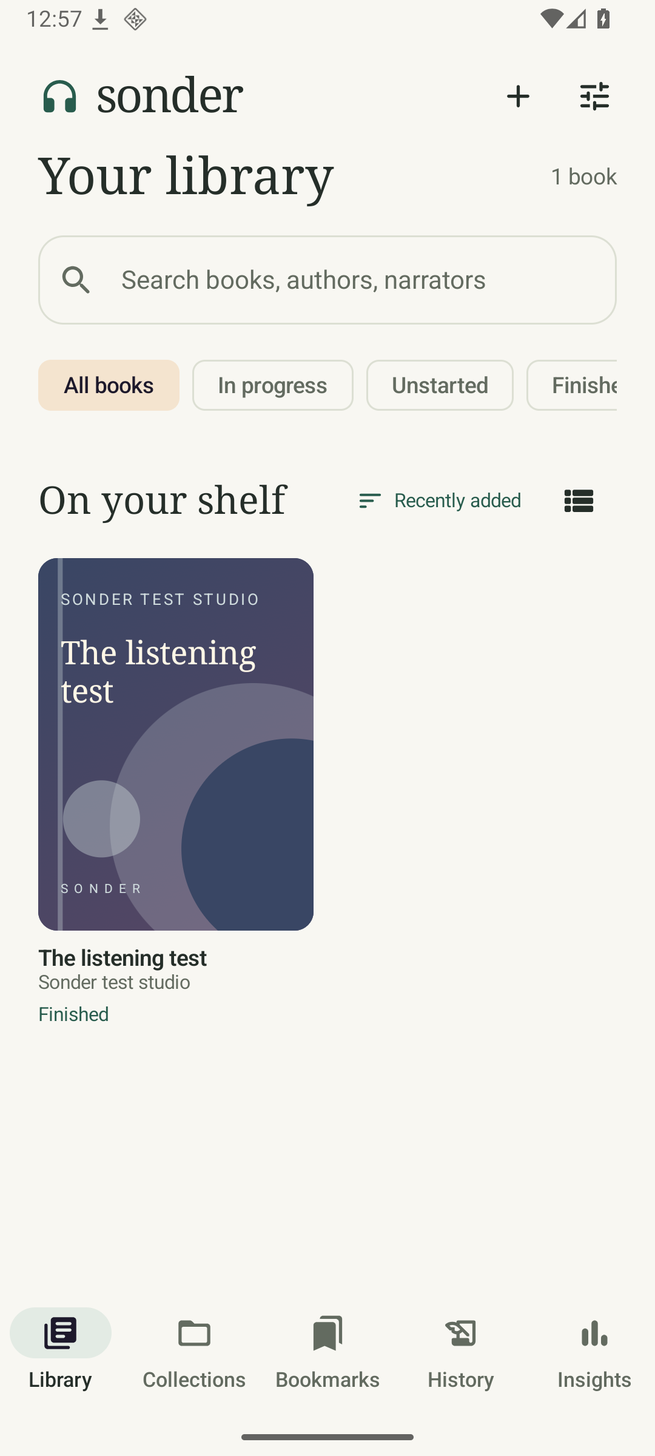
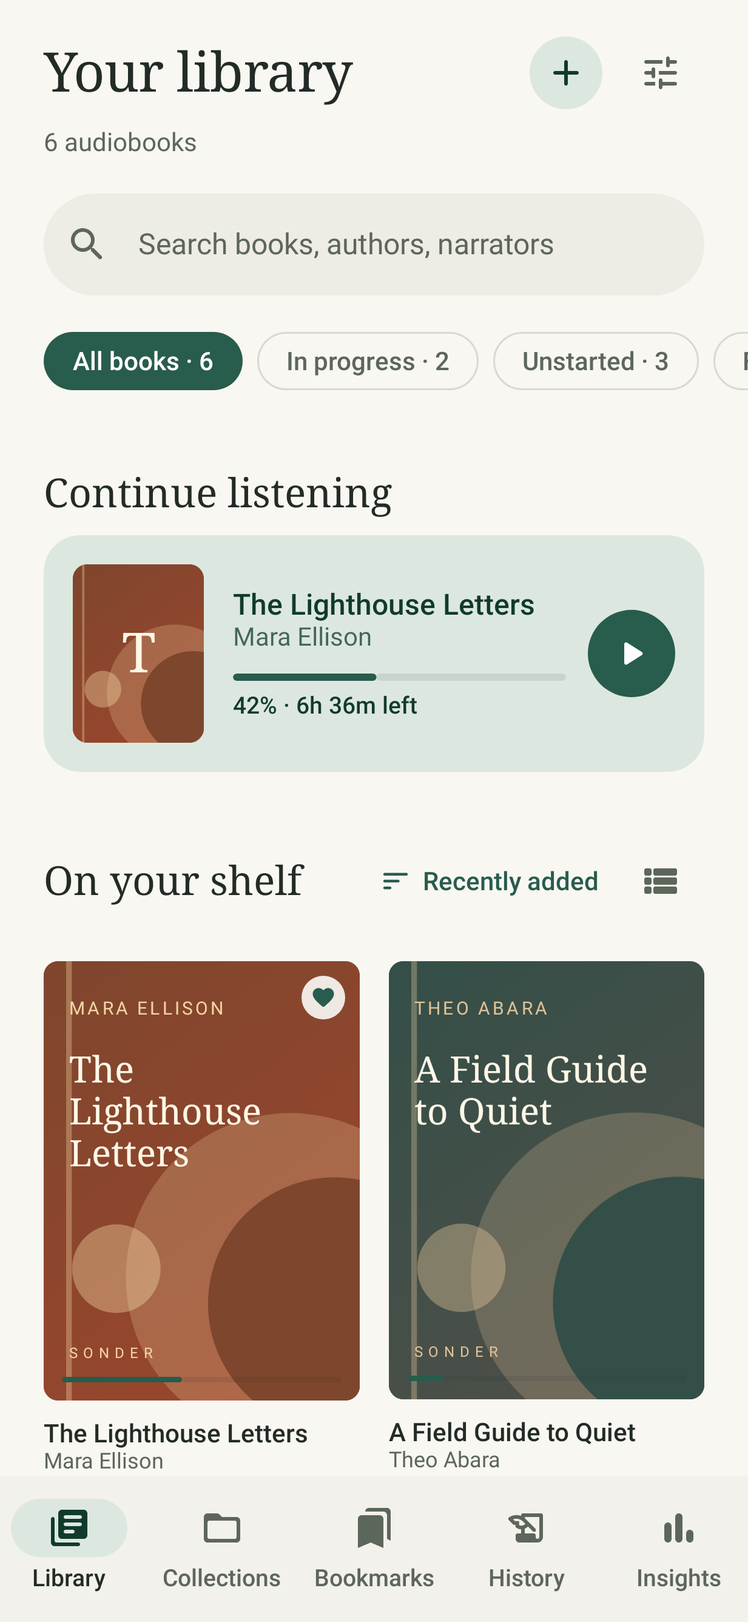
Improve everyday usability and release 1.4.0
- Undo after deleting a bookmark or reading entry and after changing a
  book's status; the store restores the exact prior state (position,
  last played, finished flag) and drops any completion prompt the change
  created.
- Settings pickers are radio lists that show the current value; 0s smart
  rewind reads as "Off".
- Reading history dates come from a calendar that only allows today or
  earlier; the percentage has -/+ buttons and a smooth slider.
- Bookmarks saved without a note are named after their chapter.
- The player shows a "Current chapter" button when the playing chapter is
  scrolled out of view.
- Library and history filter chips show counts.
- Covers clear their decorative text from the accessibility tree so screen
  readers announce each cover once.
- Give the library-book picker its own test tag instead of reusing
  "readingPercent".
- Version 1.4.0 (versionCode 5), release notes, and refreshed README
  screenshots.

Claude-Session: https://claude.ai/code/session_01SR87pnfvK1V8avMhb6S3Ao

diff --git a/app/src/main/java/app/sonder/ui/ReadingHistoryScreen.kt b/app/src/main/java/app/sonder/ui/ReadingHistoryScreen.kt
@@ -14,11 +14,15 @@ import androidx.compose.runtime.saveable.rememberSaveable
 import androidx.compose.ui.Alignment
 import androidx.compose.ui.Modifier
 import androidx.compose.ui.platform.testTag
+import androidx.compose.ui.semantics.Role
+import androidx.compose.foundation.clickable
 import androidx.compose.ui.text.style.TextOverflow
 import androidx.compose.ui.unit.dp
 import app.sonder.data.Book
 import app.sonder.data.ReadingEntry
+import java.time.Instant
 import java.time.LocalDate
+import java.time.ZoneOffset
 import java.time.format.DateTimeFormatter
 import java.time.format.FormatStyle
 import org.json.JSONObject
@@ -41,7 +45,7 @@ val ReadingDraftSaver=Saver<ReadingEntry?,String>(save={ it?.json()?.toString() 
                 StatCard(entries.count { it.percent<100 }.toString(),"Partial reads",Modifier.weight(1f))
             }
             Spacer(Modifier.height(16.dp));SearchField(query,{ query=it },"Search your reading history","Clear history search")
-            Row(Modifier.bleed(24.dp).horizontalScroll(rememberScrollState()).padding(horizontal=24.dp).padding(top=12.dp,bottom=4.dp),horizontalArrangement=Arrangement.spacedBy(8.dp)) { listOf("All reads","Completed","Partial").forEach { value -> ChoiceChip(value,filter==value,{ filter=value }) } }
+            Row(Modifier.bleed(24.dp).horizontalScroll(rememberScrollState()).padding(horizontal=24.dp).padding(top=12.dp,bottom=4.dp),horizontalArrangement=Arrangement.spacedBy(8.dp)) { listOf("All reads" to entries.size,"Completed" to entries.count { it.percent==100 },"Partial" to entries.count { it.percent<100 }).forEach { (value,count) -> ChoiceChip("$value · $count",filter==value,{ filter=value }) } }
         }
         if(filtered.isEmpty()) item { EmptyState(Icons.Rounded.HistoryEdu,if(entries.isEmpty()) "Keep a record of your reading" else "No matching entries",if(entries.isEmpty()) "Add a finished book or record how far you got. You can log books even without an audio file." else "Try another search or filter.",action={ OutlinedButton(onAdd) { Text("Log a book") } }) }
         items(filtered,key={ it.id }) { entry ->
@@ -76,24 +80,40 @@ val ReadingDraftSaver=Saver<ReadingEntry?,String>(save={ it?.json()?.toString() 
     var audioDuration by rememberSaveable(entry.id) { mutableLongStateOf(entry.duration) }
     var bookPicker by rememberSaveable { mutableStateOf(false) }
     var bookQuery by rememberSaveable { mutableStateOf("") }
+    var datePicker by rememberSaveable { mutableStateOf(false) }
     val validDate=runCatching { Regex("\\d{4}-\\d{2}-\\d{2}").matches(date) && !LocalDate.parse(date).isAfter(LocalDate.now()) }.getOrDefault(false)
     ModalBottomSheet(onDismissRequest={ if(!saving) onDismiss() },sheetState=rememberModalBottomSheetState(skipPartiallyExpanded=true),containerColor=MaterialTheme.colorScheme.background) {
         Column(Modifier.fillMaxHeight(.92f).fillMaxWidth().imePadding().padding(horizontal=24.dp)) {
             LazyColumn(Modifier.weight(1f).testTag("readingEditorForm"),verticalArrangement=Arrangement.spacedBy(14.dp),contentPadding=PaddingValues(bottom=16.dp)) {
                 item { Text("Log your reading",style=MaterialTheme.typography.headlineMedium);Text("Save the progress you want to remember. This entry won't change the library's listening status.",style=MaterialTheme.typography.bodyMedium,color=MaterialTheme.colorScheme.onSurfaceVariant,modifier=Modifier.padding(top=8.dp)) }
-                if(books.isNotEmpty()) item { OutlinedButton({ bookPicker=true },enabled=!saving,modifier=Modifier.fillMaxWidth().testTag("readingPercent")) { Icon(Icons.Rounded.LibraryBooks,null);Spacer(Modifier.width(10.dp));Text("Choose a library book") } }
+                if(books.isNotEmpty()) item { OutlinedButton({ bookPicker=true },enabled=!saving,modifier=Modifier.fillMaxWidth().testTag("chooseLibraryBook")) { Icon(Icons.Rounded.LibraryBooks,null);Spacer(Modifier.width(10.dp));Text("Choose a library book") } }
                 item { OutlinedTextField(title,{ title=it.take(1000) },modifier=Modifier.fillMaxWidth(),label={ Text("Book title") },singleLine=true,enabled=!saving) }
                 item { OutlinedTextField(author,{ author=it.take(1000) },modifier=Modifier.fillMaxWidth(),label={ Text("Author") },singleLine=true,enabled=!saving) }
                 item {
-                    Text("${percent}% read",style=MaterialTheme.typography.headlineSmall)
-                    Slider(percent.toFloat(),{ percent=it.roundToInt() },valueRange=0f..100f,steps=99,enabled=!saving,modifier=Modifier.fillMaxWidth().testTag("readingPercent"))
+                    Row(verticalAlignment=Alignment.CenterVertically) {
+                        Text("${percent}% read",style=MaterialTheme.typography.headlineSmall,modifier=Modifier.weight(1f))
+                        FilledTonalIconButton({ percent=(percent-1).coerceAtLeast(0) },enabled=!saving && percent>0) { Icon(Icons.Rounded.Remove,"Decrease percentage") }
+                        FilledTonalIconButton({ percent=(percent+1).coerceAtMost(100) },enabled=!saving && percent<100) { Icon(Icons.Rounded.Add,"Increase percentage") }
+                    }
+                    Slider(percent.toFloat(),{ percent=it.roundToInt() },valueRange=0f..100f,enabled=!saving,modifier=Modifier.fillMaxWidth().testTag("readingPercent"))
                     Row(Modifier.fillMaxWidth(),horizontalArrangement=Arrangement.SpaceBetween) { TextButton({ percent=0 },enabled=!saving) { Text("Not read") };TextButton({ percent=100 },modifier=Modifier.testTag("markReadingCompleted"),enabled=!saving) { Text("Completed") } }
                 }
-                item { OutlinedTextField(date,{ date=it.take(10) },modifier=Modifier.fillMaxWidth(),label={ Text(if(percent==100) "Finished on" else "Logged on") },placeholder={ Text("YYYY-MM-DD") },singleLine=true,isError=!validDate,enabled=!saving,supportingText={ Text(if(validDate) "Date format: YYYY-MM-DD" else "Choose a valid date, today or earlier") }) }
+                item { Box {
+                    OutlinedTextField(runCatching { LocalDate.parse(date).format(DateTimeFormatter.ofLocalizedDate(FormatStyle.LONG)) }.getOrDefault(date),{},readOnly=true,modifier=Modifier.fillMaxWidth(),label={ Text(if(percent==100) "Finished on" else "Logged on") },trailingIcon={ Icon(Icons.Rounded.CalendarMonth,null) },singleLine=true,isError=!validDate,enabled=!saving,supportingText=if(validDate) null else { { Text("Choose a valid date, today or earlier") } })
+                    // The field only displays the date; tapping anywhere on it opens the calendar.
+                    Box(Modifier.matchParentSize().clickable(enabled=!saving,onClickLabel="Choose date",role=Role.Button) { datePicker=true })
+                } }
                 item { OutlinedTextField(notes,{ notes=it.take(10000) },modifier=Modifier.fillMaxWidth(),label={ Text("Reading notes") },minLines=3,maxLines=6,enabled=!saving) }
             }
             Button(onClick={ onSave(entry.copy(title=title.trim(),author=author.trim(),percent=percent,loggedOn=date,notes=notes,source=source,duration=audioDuration)) },enabled=title.isNotBlank() && validDate && !saving,modifier=Modifier.fillMaxWidth().padding(vertical=12.dp).heightIn(min=52.dp)) { Text(if(saving) "Saving…" else "Save reading entry") }
         }
+    }
+    if(datePicker) {
+        // DatePicker works in UTC midnights; Sonder stores plain local dates.
+        val todayMillis=LocalDate.now().atStartOfDay(ZoneOffset.UTC).toInstant().toEpochMilli()
+        val state=rememberDatePickerState(initialSelectedDateMillis=runCatching { LocalDate.parse(date).atStartOfDay(ZoneOffset.UTC).toInstant().toEpochMilli() }.getOrDefault(todayMillis).coerceAtMost(todayMillis),
+            selectableDates=object:SelectableDates { override fun isSelectableDate(utcTimeMillis:Long)=utcTimeMillis<=todayMillis;override fun isSelectableYear(year:Int)=year<=LocalDate.now().year })
+        DatePickerDialog(onDismissRequest={ datePicker=false },confirmButton={ TextButton({ state.selectedDateMillis?.let { date=Instant.ofEpochMilli(it).atZone(ZoneOffset.UTC).toLocalDate().toString() };datePicker=false },enabled=state.selectedDateMillis!=null) { Text("OK") } },dismissButton={ TextButton({ datePicker=false }) { Text("Cancel") } }) { DatePicker(state) }
     }
     if(bookPicker) AlertDialog(onDismissRequest={ bookPicker=false },title={ Text("Choose a library book") },text={ Column {
         OutlinedTextField(bookQuery,{ bookQuery=it },label={ Text("Search library books") },singleLine=true)

diff --git a/app/src/main/java/app/sonder/ui/PlayerScreen.kt b/app/src/main/java/app/sonder/ui/PlayerScreen.kt
@@ -1,6 +1,13 @@
 package app.sonder.ui
 
+import androidx.compose.animation.AnimatedVisibility
+import androidx.compose.animation.fadeIn
+import androidx.compose.animation.fadeOut
+import androidx.compose.animation.slideInVertically
+import androidx.compose.animation.slideOutVertically
 import androidx.compose.foundation.clickable
+import androidx.compose.foundation.lazy.rememberLazyListState
+import kotlinx.coroutines.launch
 import androidx.compose.foundation.combinedClickable
 import androidx.compose.foundation.layout.*
 import androidx.compose.foundation.lazy.LazyColumn
@@ -41,12 +48,18 @@ import app.sonder.data.*
     val currentIndex=chapters.indexOfLast { it.start<=position }.coerceAtLeast(0)
     val current=chapters.getOrNull(currentIndex)
     val bookmarks=library.bookmarks.filter { it.bookId==book.id }
+    val listState=rememberLazyListState()
+    val scope=rememberCoroutineScope()
+    // Row 0 is the player header, so chapter i is list item i+1.
+    val currentVisible by remember(currentIndex) { derivedStateOf { listState.layoutInfo.visibleItemsInfo.any { it.index==currentIndex+1 } } }
+    val showJump=tab==0 && chapters.size>1 && listState.firstVisibleItemIndex>0 && !currentVisible
     Scaffold(containerColor=MaterialTheme.colorScheme.background,topBar={
         Row(Modifier.fillMaxWidth().statusBarsPadding().padding(horizontal=12.dp,vertical=10.dp),verticalAlignment=Alignment.CenterVertically) {
             IconAction(Icons.Rounded.KeyboardArrowDown,"Close player",onBack);Column(Modifier.weight(1f),horizontalAlignment=Alignment.CenterHorizontally) { Text("NOW LISTENING",style=MaterialTheme.typography.labelSmall,letterSpacing=2.sp,color=MaterialTheme.colorScheme.primary);Text(book.collection.ifBlank { "Your library" },style=MaterialTheme.typography.bodySmall,color=MaterialTheme.colorScheme.onSurfaceVariant) };IconAction(Icons.Rounded.MoreHoriz,"Book details",onDetails)
         }
     }) { insets ->
-        LazyColumn(Modifier.fillMaxSize().padding(insets).widthIn(max=650.dp),contentPadding=PaddingValues(start=24.dp,end=24.dp,bottom=32.dp),horizontalAlignment=Alignment.CenterHorizontally) {
+        Box(Modifier.fillMaxSize().padding(insets)) {
+        LazyColumn(Modifier.fillMaxSize().widthIn(max=650.dp).align(Alignment.TopCenter),state=listState,contentPadding=PaddingValues(start=24.dp,end=24.dp,bottom=32.dp),horizontalAlignment=Alignment.CenterHorizontally) {
             item {
                 Spacer(Modifier.height(8.dp));Cover(book,Modifier.widthIn(max=280.dp).fillMaxWidth(.72f).aspectRatio(.74f).shadow(18.dp,RoundedCornerShape(14.dp),ambientColor=Color.Black.copy(alpha=.35f),spotColor=Color.Black.copy(alpha=.35f)).combinedClickable(onClick=onOptions,onLongClickLabel="Book options",onLongClick=onOptions),large=true)
                 Spacer(Modifier.height(28.dp));Text(book.title,style=MaterialTheme.typography.headlineMedium,textAlign=TextAlign.Center,modifier=Modifier.fillMaxWidth());Spacer(Modifier.height(4.dp));Text(book.author,color=MaterialTheme.colorScheme.onSurfaceVariant,style=MaterialTheme.typography.bodyLarge,textAlign=TextAlign.Center,modifier=Modifier.fillMaxWidth())
@@ -73,12 +86,21 @@ import app.sonder.data.*
             else if(bookmarks.isEmpty()) item { EmptyState(Icons.Rounded.BookmarkBorder,"Keep the good parts","Save a moment with a note so you can return to it later.") }
             else itemsIndexed(bookmarks,key={ _,b -> b.id }) { _,b -> Row(Modifier.fillMaxWidth().clickable { vm.seek(b.position) }.padding(vertical=12.dp),verticalAlignment=Alignment.CenterVertically) { Icon(Icons.Rounded.Bookmark,null,tint=MaterialTheme.colorScheme.primary);Spacer(Modifier.width(16.dp));Column(Modifier.weight(1f)) { Text(b.note,style=MaterialTheme.typography.bodyLarge);Text(clock(b.position),style=MaterialTheme.typography.labelMedium,color=MaterialTheme.colorScheme.primary) };IconAction(Icons.Rounded.DeleteOutline,"Delete bookmark",{ vm.deleteBookmark(b.id) },tint=MaterialTheme.colorScheme.onSurfaceVariant) } }
         }
+        AnimatedVisibility(showJump,Modifier.align(Alignment.BottomCenter).padding(bottom=20.dp),enter=fadeIn()+slideInVertically { it/2 },exit=fadeOut()+slideOutVertically { it/2 }) {
+            val above=listState.firstVisibleItemIndex>currentIndex+1
+            Surface(onClick={ scope.launch { listState.animateScrollToItem(currentIndex+1) } },shape=CircleShape,color=MaterialTheme.colorScheme.inverseSurface,contentColor=MaterialTheme.colorScheme.inverseOnSurface,shadowElevation=6.dp) {
+                Row(Modifier.padding(horizontal=16.dp,vertical=10.dp),verticalAlignment=Alignment.CenterVertically) { Icon(if(above) Icons.Rounded.ArrowUpward else Icons.Rounded.ArrowDownward,null,Modifier.size(18.dp));Spacer(Modifier.width(8.dp));Text("Current chapter",style=MaterialTheme.typography.labelLarge) }
+            }
+        }
+        }
     }
-    if(bookmarkOpen) AlertDialog(onDismissRequest={ bookmarkOpen=false },title={ Text("Bookmark at ${clock(bookmarkPosition)}") },text={ OutlinedTextField(note,{ note=it },label={ Text("Add a note") },minLines=3,modifier=Modifier.fillMaxWidth()) },confirmButton={ TextButton({ vm.bookmark(note,bookmarkPosition,book.id);note="";bookmarkOpen=false;tab=1 }) { Text("Save bookmark") } },dismissButton={ TextButton({ bookmarkOpen=false }) { Text("Cancel") } })
+    // A bookmark saved without a note is named after its chapter rather than a generic "Bookmark".
+    val bookmarkChapter=chapters.lastOrNull { it.start<=bookmarkPosition }?.title.orEmpty()
+    if(bookmarkOpen) AlertDialog(onDismissRequest={ bookmarkOpen=false },title={ Text("Bookmark at ${clock(bookmarkPosition)}") },text={ OutlinedTextField(note,{ note=it },label={ Text("Add a note") },placeholder={ if(bookmarkChapter.isNotBlank()) Text(bookmarkChapter) },supportingText={ if(note.isBlank() && bookmarkChapter.isNotBlank()) Text("Leave blank to name it after the chapter") },minLines=3,modifier=Modifier.fillMaxWidth()) },confirmButton={ TextButton({ vm.bookmark(note.ifBlank { bookmarkChapter },bookmarkPosition,book.id);note="";bookmarkOpen=false;tab=1 }) { Text("Save bookmark") } },dismissButton={ TextButton({ bookmarkOpen=false }) { Text("Cancel") } })
     if(speedOpen) ModalBottomSheet(onDismissRequest={ speedOpen=false },containerColor=MaterialTheme.colorScheme.background) {
         Column(Modifier.padding(horizontal=24.dp).padding(bottom=32.dp)) {
             Text("At your own pace",style=MaterialTheme.typography.headlineMedium);Spacer(Modifier.height(8.dp));Text("${playback.speed}× · ${duration(((book.duration-playback.position)/playback.speed).toLong())} remaining",color=MaterialTheme.colorScheme.onSurfaceVariant)
-            Slider(playback.speed,{ vm.speed((it*20).toInt()/20f) },valueRange=.5f..3f,steps=49)
+            Slider(playback.speed,{ vm.speed((it*20).toInt()/20f) },valueRange=.5f..3f)
             FlowRow(Modifier.fillMaxWidth(),horizontalArrangement=Arrangement.spacedBy(8.dp)) { listOf(.75f,1f,1.25f,1.5f,2f).forEach { value -> ChoiceChip("${value}×",playback.speed==value,{ vm.speed(value) }) } }
             Row(Modifier.fillMaxWidth().padding(top=16.dp),verticalAlignment=Alignment.CenterVertically) { Text("Preserve voice pitch",modifier=Modifier.weight(1f));Switch(settings.preservePitch,{ vm.preferences.update(settings.copy(preservePitch=it)) }) }
         }

diff --git a/app/src/main/java/app/sonder/ui/OtherScreens.kt b/app/src/main/java/app/sonder/ui/OtherScreens.kt
@@ -2,6 +2,9 @@ package app.sonder.ui
 
 import androidx.compose.foundation.background
 import androidx.compose.foundation.clickable
+import androidx.compose.foundation.selection.selectable
+import androidx.compose.foundation.selection.selectableGroup
+import androidx.compose.ui.semantics.Role
 import androidx.compose.foundation.combinedClickable
 import androidx.compose.foundation.rememberScrollState
 import androidx.compose.foundation.verticalScroll
@@ -88,7 +91,7 @@ import java.util.Locale
     val update=vm.preferences::update
     LazyColumn(contentPadding=PaddingValues(start=20.dp,end=20.dp,top=4.dp,bottom=32.dp),verticalArrangement=Arrangement.spacedBy(20.dp)) {
         item { SettingsGroup("Appearance") { Row(Modifier.padding(16.dp),horizontalArrangement=Arrangement.spacedBy(8.dp)) { listOf("System","Light","Dark").forEach { t -> ChoiceChip(t,settings.theme==t,{ update(settings.copy(theme=t)) }) } } } }
-        item { SettingsGroup("Playback") { SettingSwitch("Skip silence","Skip quiet gaps in narration",settings.skipSilence,{ update(settings.copy(skipSilence=it)) });SettingSwitch("Preserve voice pitch","Keep narration natural at faster speeds",settings.preservePitch,{ update(settings.copy(preservePitch=it)) });SettingAction("Rewind button","${settings.rewind} seconds",Icons.Rounded.Replay,{ option="Rewind" });SettingAction("Forward button","${settings.forward} seconds",Icons.Rounded.Forward30,{ option="Forward" });SettingAction("Smart rewind","${settings.smartRewind} seconds when opening a book",Icons.Rounded.History,{ option="Smart rewind" }) } }
+        item { SettingsGroup("Playback") { SettingSwitch("Skip silence","Skip quiet gaps in narration",settings.skipSilence,{ update(settings.copy(skipSilence=it)) });SettingSwitch("Preserve voice pitch","Keep narration natural at faster speeds",settings.preservePitch,{ update(settings.copy(preservePitch=it)) });SettingAction("Rewind button","${settings.rewind} seconds",Icons.Rounded.Replay,{ option="Rewind" });SettingAction("Forward button","${settings.forward} seconds",Icons.Rounded.Forward30,{ option="Forward" });SettingAction("Smart rewind",if(settings.smartRewind==0) "Off" else "${settings.smartRewind} seconds when opening a book",Icons.Rounded.History,{ option="Smart rewind" }) } }
         item { SettingsGroup("Listening goal") { SettingAction("Daily goal","${settings.dailyGoal} minutes",Icons.Rounded.Flag,{ option="Daily goal" }) } }
         item { SettingsGroup("Library & files") {
             SettingAction("Add audio files","Import files from your phone or storage provider",Icons.Rounded.AudioFile,onFiles);SettingAction("Add a folder","Group audio tracks and read chapter files",Icons.Rounded.FolderOpen,onFolder);SettingAction("Scan device for audiobooks","Find shared audio without choosing a folder",Icons.Rounded.Search,onScan);if(library.folders.isNotEmpty()) SettingAction("Rescan saved folders","Add new files without importing duplicates",Icons.Rounded.Refresh,vm::rescan)
@@ -112,7 +115,10 @@ import java.util.Locale
     }
     if(option.isNotEmpty()) {
         val values=when(option) { "Daily goal" -> listOf(10,15,20,30,45,60,90,120);"Smart rewind" -> listOf(0,3,5,10,15,30);else -> listOf(5,10,15,20,30,45,60) }
-        AlertDialog(onDismissRequest={ option="" },title={ Text(option) },text={ Column { values.forEach { n -> TextButton({ update(when(option) { "Daily goal" -> settings.copy(dailyGoal=n);"Smart rewind" -> settings.copy(smartRewind=n);"Rewind" -> settings.copy(rewind=n);else -> settings.copy(forward=n) });option="" },modifier=Modifier.fillMaxWidth()) { Text("$n ${if(option=="Daily goal") "minutes" else "seconds"}") } } } },confirmButton={},dismissButton={ TextButton({ option="" }) { Text("Cancel") } })
+        val current=when(option) { "Daily goal" -> settings.dailyGoal;"Smart rewind" -> settings.smartRewind;"Rewind" -> settings.rewind;else -> settings.forward }
+        AlertDialog(onDismissRequest={ option="" },title={ Text(option) },text={ Column(Modifier.selectableGroup().verticalScroll(rememberScrollState())) { values.forEach { n ->
+            Row(Modifier.fillMaxWidth().clip(MaterialTheme.shapes.small).selectable(selected=n==current,role=Role.RadioButton,onClick={ update(when(option) { "Daily goal" -> settings.copy(dailyGoal=n);"Smart rewind" -> settings.copy(smartRewind=n);"Rewind" -> settings.copy(rewind=n);else -> settings.copy(forward=n) });option="" }).padding(vertical=10.dp,horizontal=4.dp),verticalAlignment=Alignment.CenterVertically) { RadioButton(selected=n==current,onClick=null);Spacer(Modifier.width(14.dp));Text(if(n==0) "Off" else "$n ${if(option=="Daily goal") "minutes" else "seconds"}",style=MaterialTheme.typography.bodyLarge) }
+        } } },confirmButton={},dismissButton={ TextButton({ option="" }) { Text("Cancel") } })
     }
     if(restoreConfirm) AlertDialog(onDismissRequest={ restoreConfirm=false },title={ Text("Restore your library information?") },text={ Text("Matching library books receive the backup's metadata, listening progress, and bookmarks. Current bookmarks on those books are replaced. Reading history is merged by entry ID and restores without audio. Export a backup first to keep the current state.") },confirmButton={ TextButton({ restoreConfirm=false;onRestore() }) { Text("Choose backup") } },dismissButton={ TextButton({ restoreConfirm=false }) { Text("Cancel") } })
 }

diff --git a/app/src/main/java/app/sonder/ui/LibraryViewModel.kt b/app/src/main/java/app/sonder/ui/LibraryViewModel.kt
@@ -24,6 +24,7 @@ import kotlinx.coroutines.flow.asStateFlow
 import java.io.File
 
 data class DeviceScanState(val running:Boolean=false,val completed:Boolean=false,val result:DeviceScanner.Result=DeviceScanner.Result(emptyList()),val error:String="")
+data class UndoNotice(val message:String,val undo:()->Unit)
 data class Playback(val bookId:Long=0,val position:Long=0,val playing:Boolean=false,val buffering:Boolean=false,val speed:Float=1f,val error:String="")
 @UnstableApi
 class LibraryViewModel(application:Application):AndroidViewModel(application) {
@@ -163,23 +164,30 @@ class LibraryViewModel(application:Application):AndroidViewModel(application) {
             finally { historySavingState.value=false }
         }
     }
-    fun deleteReading(id:String) { perform { store.deleteReading(id);notice("Removed this reading history entry.") } }
+    fun deleteReading(id:String) {
+        val entry=library.value.readingHistory.firstOrNull { it.id==id }
+        perform { store.deleteReading(id);if(entry!=null) offerUndo("Reading entry deleted") { perform { store.saveReading(entry) } } else notice("Removed this reading history entry.") }
+    }
     fun dismissCompletion(id:String) { perform { store.dismissCompletion(id) } }
     private fun perform(block:suspend ()->Unit) { viewModelScope.launch(errorHandler) { try { block() } catch(e:CancellationException) { throw e } catch(e:Exception) { notice("Could not save the library. Check available storage and try again.") } } }
     fun edit(book:Book) { perform { store.update(book) } }
     fun markStatus(book:Book,status:ListeningStatus) {
         playingJob?.cancel()
+        val before=library.value.books.firstOrNull { it.id==book.id } ?: book
         perform {
             store.markStatus(book.id,status)
             if(playback.value.bookId==book.id) {
                 controller?.pause();controller?.stop();controller?.clearMediaItems();loadedTracks=emptyList();updatePlayback();timer(0)
             }
-            notice("Marked as ${status.label.lowercase()}.")
+            offerUndo("Marked as ${status.label.lowercase()}") { perform { store.restoreStatus(before) } }
         }
     }
     fun remove(book:Book) { perform { if(playback.value.bookId==book.id) { controller?.stop();controller?.clearMediaItems() };store.remove(book.id);if(book.cover.isNotEmpty()) withContext(Dispatchers.IO) { File(book.cover).delete() };notice("Removed from library. The original audio files are unchanged.") } }
     fun bookmark(note:String,position:Long?=null,bookId:Long?=null) { val p=playback.value;val id=bookId ?: p.bookId; if(id>0) perform { store.addBookmark(id,position ?: p.position,note.ifBlank { "Bookmark" });notice("Bookmark saved.") } }
-    fun deleteBookmark(id:Long) { perform { store.removeBookmark(id) } }
+    fun deleteBookmark(id:Long) {
+        val mark=library.value.bookmarks.firstOrNull { it.id==id }
+        perform { store.removeBookmark(id);if(mark!=null) offerUndo("Bookmark deleted") { perform { store.restoreBookmark(mark) } } }
+    }
     fun editBookmark(id:Long,note:String) { perform { store.editBookmark(id,note) } }
     fun export(uri:Uri) { viewModelScope.launch(errorHandler) {
         runCatching { val json=store.export();withContext(Dispatchers.IO) { app.contentResolver.openOutputStream(uri,"wt")?.use { it.write(json.toByteArray()) } ?: error("Cannot write backup") } }.onSuccess { notice("Backup saved. Audio files are not included.") }.onFailure { notice(it.message ?: "Backup could not be saved.") }
@@ -188,6 +196,10 @@ class LibraryViewModel(application:Application):AndroidViewModel(application) {
         runCatching { val text=withContext(Dispatchers.IO) { app.contentResolver.openInputStream(uri)?.use { val bytes=it.readBounded(8_000_001);require(bytes.size<=8_000_000);bytes.toString(Charsets.UTF_8) } ?: error("Cannot open backup") };store.restore(text) }.onSuccess { controller?.pause();controller?.stop();controller?.clearMediaItems();loadedTracks=emptyList();updatePlayback();notice("Restored $it library books. ${library.value.readingHistory.size} reading history entries available.") }.onFailure { notice("Could not restore this backup. Check the file and version.") }
     } }
     fun notice(text:String) { noticeState.value=text }
+    private val undoState=MutableStateFlow<UndoNotice?>(null)
+    val undo=undoState.asStateFlow()
+    private fun offerUndo(message:String,undo:()->Unit) { undoState.value=UndoNotice(message,undo) }
+    fun clearUndo(notice:UndoNotice) { undoState.compareAndSet(notice,null) }
     fun clearNotice() { noticeState.value="" }
     override fun onCleared() { MediaController.releaseFuture(controllerFuture);super.onCleared() }
 }

diff --git a/app/src/main/java/app/sonder/ui/SonderRoot.kt b/app/src/main/java/app/sonder/ui/SonderRoot.kt
@@ -42,6 +42,7 @@ import kotlinx.coroutines.launch
     val playback by vm.playback.collectAsStateWithLifecycle()
     val import by vm.importProgress.collectAsStateWithLifecycle()
     val notice by vm.notice.collectAsStateWithLifecycle()
+    val undo by vm.undo.collectAsStateWithLifecycle()
     val historySaving by vm.historySaving.collectAsStateWithLifecycle()
     var tab by rememberSaveable { mutableIntStateOf(0) }
     var selected by rememberSaveable { mutableLongStateOf(0) }
@@ -59,6 +60,7 @@ import kotlinx.coroutines.launch
     val detail=library.books.firstOrNull { it.id==selected }
     LaunchedEffect(updates.available?.version) { if(updates.available!=null) { if(snackbar.showSnackbar("Sonder ${updates.available!!.version} is available",actionLabel="Update",withDismissAction=true)==SnackbarResult.ActionPerformed) updateOpen=true } }
     LaunchedEffect(notice) { if(notice.isNotEmpty()) { snackbar.showSnackbar(notice);vm.clearNotice() } }
+    LaunchedEffect(undo) { undo?.let { u -> try { if(snackbar.showSnackbar(u.message,actionLabel="Undo",withDismissAction=true,duration=SnackbarDuration.Long)==SnackbarResult.ActionPerformed) u.undo() } finally { vm.clearUndo(u) } } }
     LaunchedEffect(import.running,import.current,import.errors) { if(!import.running && import.current.isNotBlank()) { vm.notice(import.current+if(import.errors.isNotEmpty()) " · ${import.errors.size} files need attention" else "") } else if(!import.running && import.errors.isNotEmpty()) vm.notice(import.errors.first()) }
     BackHandler(player || settingsOpen || selected>0 || collectionFilter.isNotBlank()) { when { player -> player=false;settingsOpen -> settingsOpen=false;selected>0 -> selected=0;else -> collectionFilter="" } }
     SonderTheme(settings.theme) {
@@ -128,11 +130,12 @@ import kotlinx.coroutines.launch
     var query by rememberSaveable { mutableStateOf("") };var filter by rememberSaveable { mutableStateOf("All books") };var sort by rememberSaveable { mutableStateOf("Recently added") };var sortOpen by remember { mutableStateOf(false) }
     val filtered=books.filter { (collection.isEmpty() || if(collection=="Favorites") it.favorite else it.collection==collection) && (query.isBlank() || listOf(it.title,it.author,it.narrator,it.genre,it.collection).any { v -> v.contains(query,true) }) && when(filter) { "In progress" -> it.inProgress;"Unstarted" -> !it.inProgress && !it.finished;"Finished" -> it.finished;else -> true } }.let { list -> when(sort) { "Title" -> list.sortedBy { it.title.lowercase() };"Author" -> list.sortedBy { it.author.lowercase() };"Duration" -> list.sortedBy { it.duration };"Last listened" -> list.sortedByDescending { it.lastPlayed };else -> list.sortedByDescending { it.added } } }
     val recent=books.filter { it.inProgress }.maxByOrNull { it.lastPlayed }
+    val counts=books.filter { collection.isEmpty() || if(collection=="Favorites") it.favorite else it.collection==collection }.let { shelf -> mapOf("All books" to shelf.size,"In progress" to shelf.count { it.inProgress },"Unstarted" to shelf.count { !it.inProgress && !it.finished },"Finished" to shelf.count { it.finished }) }
     val header:@Composable (Modifier)->Unit = { modifier ->
         Column(modifier) {
             PageHeader(if(collection.isBlank()) "Your library" else collection,if(collection.isBlank()) "${books.size} ${if(books.size==1) "audiobook" else "audiobooks"}" else "Collection",action=if(collection.isNotEmpty()) { { IconAction(Icons.Rounded.Close,"Clear collection filter",onClearCollection) } } else { { PageAction(Icons.Rounded.Add,"Import audiobooks",onImport) } })
             Spacer(Modifier.height(16.dp));SearchField(query,{ query=it },"Search books, authors, narrators","Clear search")
-            Row(Modifier.bleed(24.dp).horizontalScroll(rememberScrollState()).padding(horizontal=24.dp).padding(top=12.dp),horizontalArrangement=Arrangement.spacedBy(8.dp)) { listOf("All books","In progress","Unstarted","Finished").forEach { label -> ChoiceChip(label,filter==label,{ filter=label }) } }
+            Row(Modifier.bleed(24.dp).horizontalScroll(rememberScrollState()).padding(horizontal=24.dp).padding(top=12.dp),horizontalArrangement=Arrangement.spacedBy(8.dp)) { listOf("All books","In progress","Unstarted","Finished").forEach { label -> ChoiceChip("$label · ${counts[label] ?: 0}",filter==label,{ filter=label }) } }
         }
     }
     Column(Modifier.fillMaxSize()) {

diff --git a/app/src/main/java/app/sonder/data/LibraryStore.kt b/app/src/main/java/app/sonder/data/LibraryStore.kt
@@ -140,9 +140,19 @@ class LibraryStore(context: Context,databaseName:String="sonder-library.db") : S
             db.setTransactionSuccessful()
         } finally { db.endTransaction() }
     }
+    // Puts a book back exactly as it was before a status change, for Undo. Queued progress saves from before are invalidated.
+    suspend fun restoreStatus(book:Book) = change { db ->
+        db.beginTransaction()
+        try {
+            db.execSQL("UPDATE books SET progressRevision=progressRevision+1, finished=?, started=?, position=?, lastPlayed=? WHERE id=?",arrayOf<Any>(if(book.finished) 1 else 0,if(book.started) 1 else 0,book.position,book.lastPlayed,book.id))
+            if(!book.finished) db.delete("reading_prompts","bookId=?",arrayOf("${book.id}"))
+            db.setTransactionSuccessful()
+        } finally { db.endTransaction() }
+    }
     suspend fun startListening(id:Long) = change { db -> db.execSQL("UPDATE books SET started=1, finished=0 WHERE id=?",arrayOf(id));db.delete("reading_prompts","bookId=?",arrayOf("$id")) }
     suspend fun addBookmark(bookId: Long, position: Long, note: String) = change { db -> db.insertOrThrow("bookmarks",null,ContentValues().apply { put("bookId",bookId); put("position",position); put("note",note.take(10000)); put("created",System.currentTimeMillis()) }) }
     suspend fun editBookmark(id: Long, note: String) = change { db -> db.update("bookmarks",ContentValues().apply { put("note",note.take(10000)) },"id=?",arrayOf("$id")) }
+    suspend fun restoreBookmark(mark: Bookmark) = change { db -> db.insertWithOnConflict("bookmarks",null,ContentValues().apply { put("id",mark.id); put("bookId",mark.bookId); put("position",mark.position); put("note",mark.note.take(10000)); put("created",mark.created) },SQLiteDatabase.CONFLICT_IGNORE) }
     suspend fun removeBookmark(id: Long) = change { db -> db.delete("bookmarks","id=?",arrayOf("$id")) }
     suspend fun remove(id: Long) = change { db -> db.delete("books","id=?",arrayOf("$id")) }
     suspend fun rememberFolder(uri: String) = change { db -> db.insertWithOnConflict("folders",null,ContentValues().apply { put("uri",uri) },SQLiteDatabase.CONFLICT_IGNORE) }

diff --git a/app/src/main/java/app/sonder/ui/Components.kt b/app/src/main/java/app/sonder/ui/Components.kt
@@ -26,7 +26,7 @@ import androidx.compose.ui.layout.ContentScale
 import androidx.compose.ui.layout.layout
 import androidx.compose.ui.platform.testTag
 import androidx.compose.ui.semantics.contentDescription
-import androidx.compose.ui.semantics.semantics
+import androidx.compose.ui.semantics.clearAndSetSemantics
 import androidx.compose.ui.text.font.FontFamily
 import androidx.compose.ui.text.font.FontWeight
 import androidx.compose.ui.text.style.TextAlign
@@ -43,7 +43,7 @@ import kotlin.math.absoluteValue
     val bitmap by produceState<androidx.compose.ui.graphics.ImageBitmap?>(null,book.cover) { value=withContext(Dispatchers.IO) { if(book.cover.isBlank()) null else runCatching { BitmapFactory.decodeFile(book.cover)?.asImageBitmap() }.getOrNull() } }
     val palette=listOf(Color(0xFF334F48) to Color(0xFFE1C298),Color(0xFF7E462D) to Color(0xFFF3D4A3),Color(0xFF394664) to Color(0xFFCFDBDD),Color(0xFF77545F) to Color(0xFFE9C7B4),Color(0xFF5A634A) to Color(0xFFE4DBB1))
     val (base,accent)=palette[(book.title.hashCode().toLong().absoluteValue%palette.size).toInt()]
-    Box(modifier.clip(RoundedCornerShape(if(large) 14.dp else 8.dp)).background(base).semantics { contentDescription="Cover of ${book.title}" }) {
+    Box(modifier.clip(RoundedCornerShape(if(large) 14.dp else 8.dp)).background(base).clearAndSetSemantics { contentDescription="Cover of ${book.title}" }) {
         if(bitmap!=null) Image(bitmap!!,null,Modifier.fillMaxSize(),contentScale=ContentScale.Crop)
         else {
             Canvas(Modifier.fillMaxSize()) {

diff --git a/RELEASE_NOTES.md b/RELEASE_NOTES.md
@@ -1,8 +1,14 @@
-Sonder now receives updates directly from its GitHub releases.
+Sonder 1.4 is a cleaner, calmer redesign with fewer rough edges.
 
-- Automatic checks when the app opens, with a daily limit and an opt-out in Settings.
-- Manual update checks, release notes, download progress, retry, and Android installation prompts.
-- Downloads resume after closing the app. APK checksums, package identity, version, and signing certificate are verified before installation.
-- Your audiobook library, playback progress, bookmarks, and independent Reading History stay saved through updates.
+- A refreshed look across every screen, in light and dark: consistent colors, cards, and type, with no more stray purple in dialogs and menus.
+- Each tab opens on its own title. Import lives on the Library title row, and Settings is on every tab.
+- Undo after deleting a bookmark or reading entry, and after changing a book's status, including "Not started".
+- Settings pickers show the value you have chosen.
+- Pick reading-history dates from a calendar, and fine-tune the percentage with − and + buttons.
+- Bookmarks saved without a note are named after their chapter.
+- A "Current chapter" button in the player jumps back to where you are in long chapter lists.
+- Filter chips show how many books or entries each one holds.
+- Small covers show a monogram instead of clipped text, and long titles no longer break mid-word.
+- Screen readers announce each cover once.
 
-Install this APK over an existing Sonder installation. Version 1.2 and earlier need this one manual update to enable future in-app updates.
+Install over your existing Sonder app to keep your library. Version 1.2 and earlier need this one manual update to enable in-app updates.

diff --git a/README.md b/README.md
@@ -14,7 +14,7 @@ Install over your existing Sonder app to keep its library.
 
 ## Install and listen
 
-Open the supplied `Sonder-1.3.0.apk` on your Android phone. To update version 1.0, 1.1, or 1.2, install this APK over the existing app without uninstalling it. The same signing key and an in-place database migration preserve your library, progress, bookmarks, and granted folder access. Android may ask you to allow installation from the app that opened the file. Open Sonder, tap **+**, and choose files or a folder through the system picker.
+Open the supplied `Sonder-1.4.0.apk` on your Android phone. To update version 1.0, 1.1, 1.2, or 1.3, install this APK over the existing app without uninstalling it. The same signing key and an in-place database migration preserve your library, progress, bookmarks, and granted folder access. Android may ask you to allow installation from the app that opened the file. Open Sonder, tap **+**, and choose files or a folder through the system picker.
 
 Folders are scanned recursively. Matching album and author tags group tracks into books across file and folder selections. Untagged M4B/MP4 files and files with multiple embedded chapters remain separate books. Other untagged tracks in the same folder are grouped using the folder name. Tracks use natural filename order. The original media files stay where you selected them, so keep that folder, SD card, or document provider available. Cloud document providers must make the files available locally for offline playback. If a provider refuses persistent read permission, Sonder warns you; selecting the file again may be required after restarting.
 
